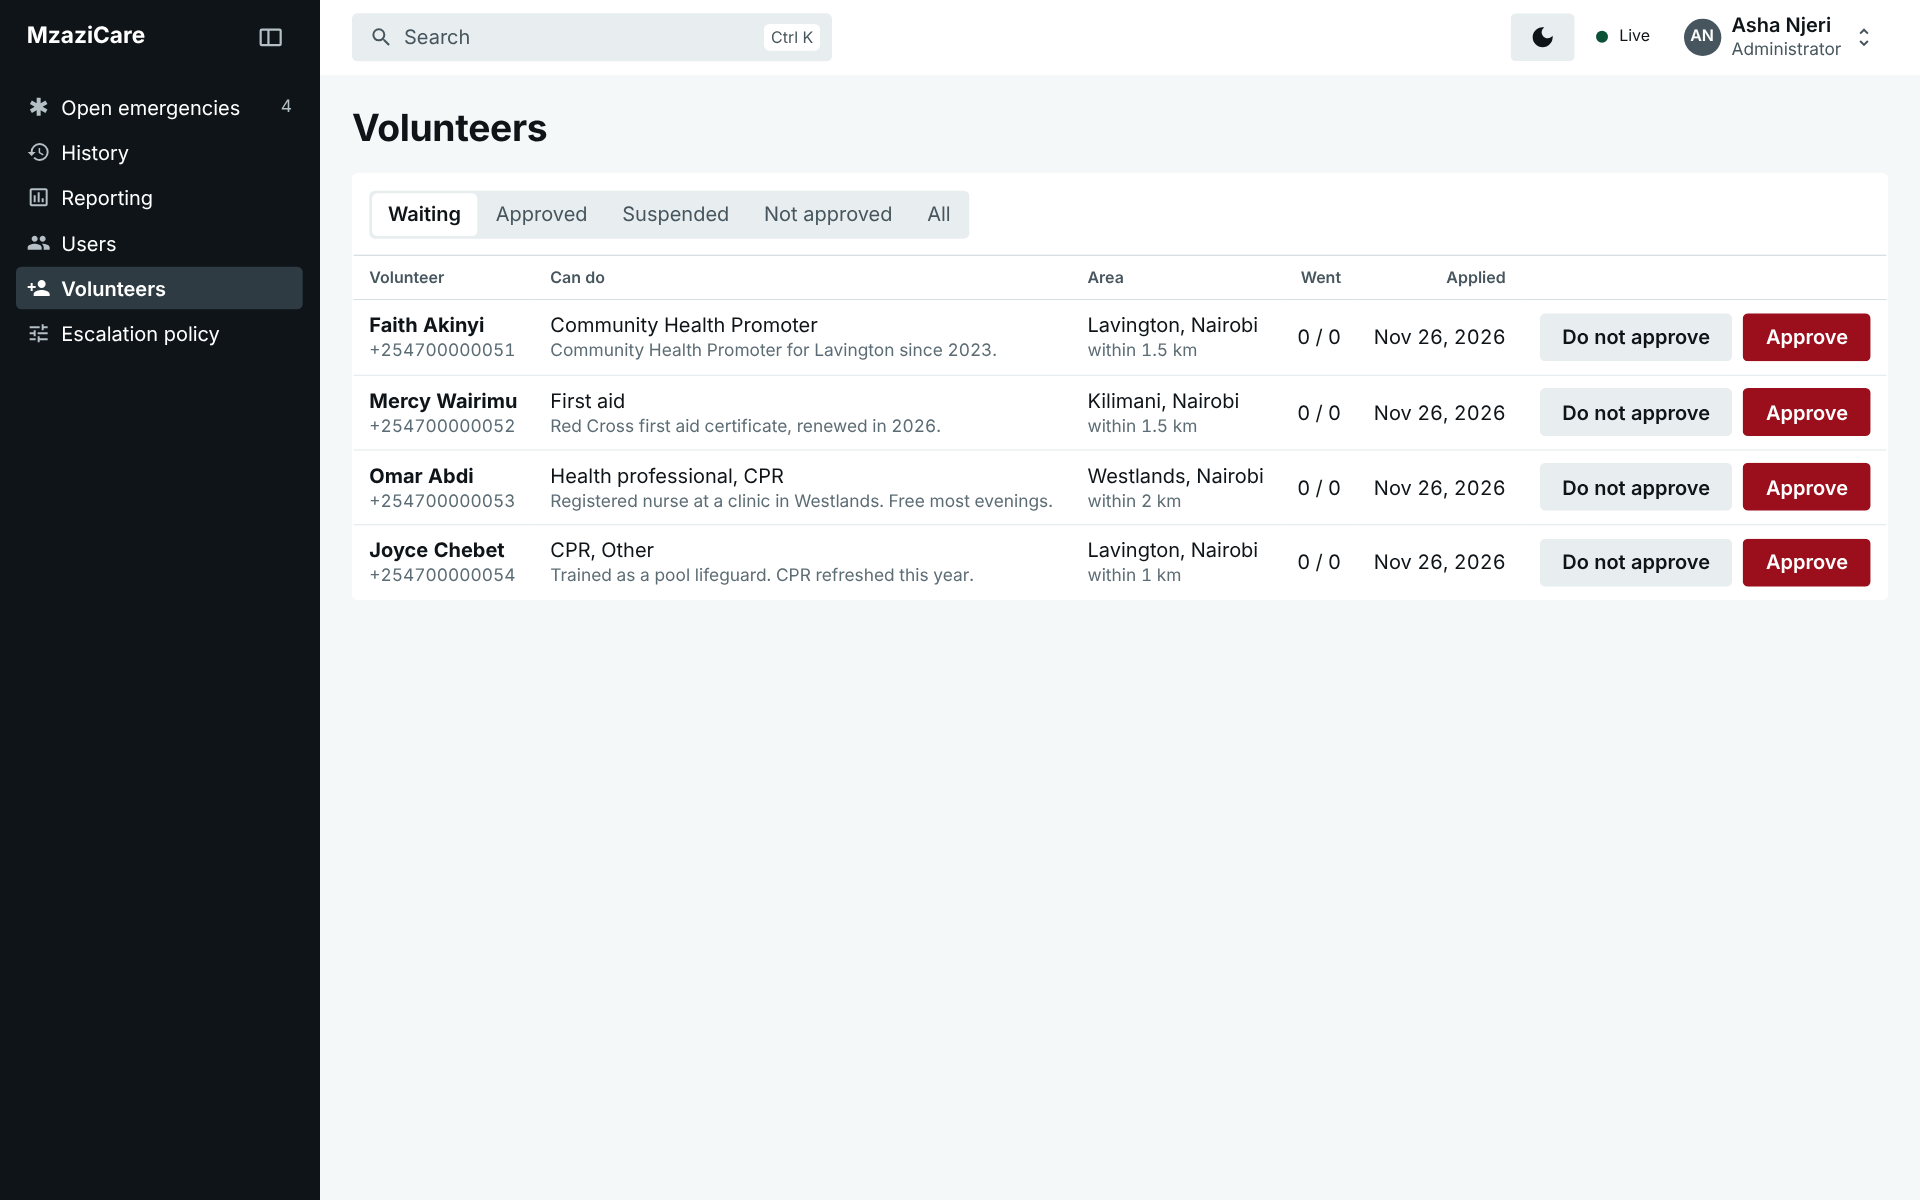
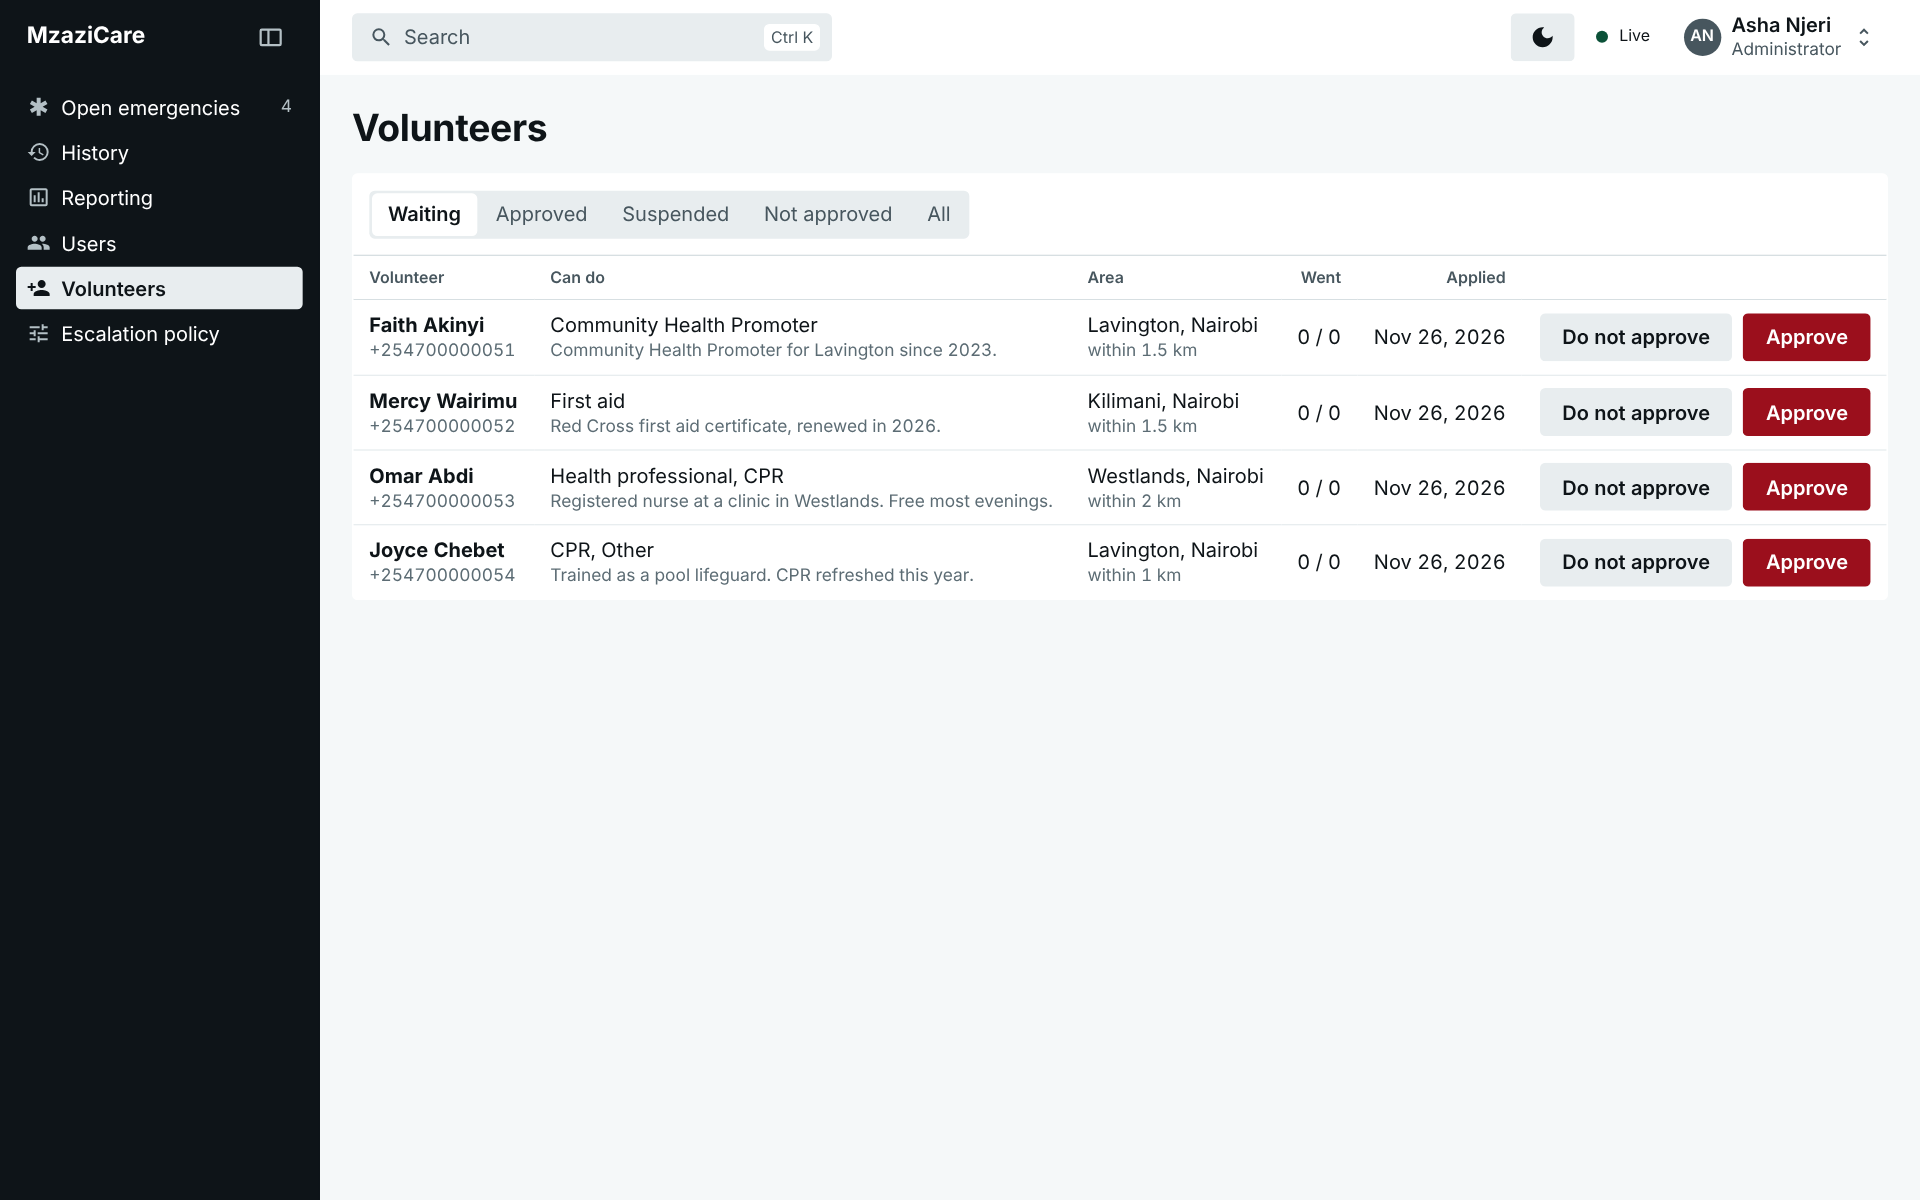
Make the sidebar's hover and current section easy to see
A row in the sidebar now turns a mid grey under the pointer, as the search field darkens
under it, and the current section is a light block with dark words rather than a slightly
lighter dark grey. The collapse button and the rail use the same hover. Both colours have
their own tokens (sidebarHover, sidebarSelected, sidebarSelectedText), gated in light and
dark mode: the words at AAA on the current block and AA on the hover, and each block
against the sidebar itself so it can be seen.

Changed region(s): [[0.0, 0.2158, 0.1562, 0.2775]]

diff --git a/frontend/dashboard/src/styles.css b/frontend/dashboard/src/styles.css
@@ -169,6 +169,10 @@ html {
   clip-path: inset(50%);
   white-space: nowrap;
 }
+.shell--rail .nav a[aria-current='page'] .nav__count {
+  background: var(--sidebar-selected-text);
+  color: var(--sidebar-selected);
+}
 .shell--rail .nav__count {
   position: absolute;
   top: 0;
@@ -209,7 +213,7 @@ html {
   color: var(--sidebar-text-soft);
 }
 .sidebar .icon-button:hover:not(:disabled) {
-  background: var(--sidebar-selected);
+  background: var(--sidebar-hover);
   color: var(--sidebar-text);
 }
 
@@ -259,21 +263,34 @@ html {
   font-size: var(--font-size-body);
   text-decoration: none;
 }
-/* A row in the sidebar: an icon, the name, and a count at the end. The current page is a
-   lighter block on the dark sidebar, never red: red is for emergencies. */
+/* A row in the sidebar: an icon, the name, and a count at the end. Under the pointer it
+   takes a lighter grey block, as the search field darkens under it; the current page is a
+   light block with dark words, never red: red is for emergencies. Both colours are gated
+   against the sidebar in light and dark mode. */
 .nav a:hover {
-  background: color-mix(in srgb, var(--sidebar-selected) 60%, transparent);
+  background: var(--sidebar-hover);
   text-decoration: none;
 }
-.nav a[aria-current='page'] {
+.nav a[aria-current='page'],
+.nav a[aria-current='page']:hover {
   background: var(--sidebar-selected);
+  color: var(--sidebar-selected-text);
   font-weight: var(--font-weight-strong);
 }
 .nav a .icon {
   color: var(--sidebar-text-soft);
 }
-.nav a[aria-current='page'] .icon {
+.nav a:hover .icon {
   color: var(--sidebar-text);
+}
+.nav a[aria-current='page'] .icon,
+.nav a[aria-current='page'] .nav__count {
+  color: var(--sidebar-selected-text);
+}
+@media (prefers-reduced-motion: no-preference) {
+  .nav a {
+    transition: background-color var(--motion-quick) ease;
+  }
 }
 .nav__text {
   flex: 1;

diff --git a/docs/design-language.md b/docs/design-language.md
@@ -167,8 +167,9 @@ console follows the computer's light or dark setting until the moon or sun in th
 is pressed; "Match this device" in the account menu goes back to following it.
 
 - **A window frame.** A dark sidebar holds the sections, each with its count. The current
-  section is a lighter block, never red, and the sidebar's colours have their own tokens,
-  gated at AAA in both themes, with a lighter focus ring that shows on the dark. A button
+  section is a light block with dark words, a row under the pointer turns a mid grey as the
+  search field does, never red, and the sidebar's colours have their own tokens, gated in
+  both themes, with a lighter focus ring that shows on the dark. A button
   at its top collapses it to a rail of icons; on a phone it is a drawer behind a button in
   the top bar. A white bar across the top of every page holds the search on the left and,
   on the right, the Live status and the account, which opens a small menu downwards. Collapsing it is

diff --git a/DESIGN.md b/DESIGN.md
@@ -28,7 +28,9 @@ colors:
   sidebar: "#0E1418"
   sidebar-text: "#FFFFFF"
   sidebar-text-soft: "#B4C0C5"
-  sidebar-selected: "#2E3B42"
+  sidebar-selected: "#E8EDEF"
+  sidebar-selected-text: "#0E1418"
+  sidebar-hover: "#47565E"
 typography:
   elder-display:
     fontFamily: "SF Pro, system-ui, sans-serif"
@@ -444,7 +446,7 @@ the chosen segment raised on it.
 
 A bottom bar in the app with a sunk-surface pill on the current tab and a red badge
 with the number nobody has answered. In the console, a dark sidebar whose current page is
-a lighter block, never red, with each section's count beside it, and a white bar across
+a light block with dark words and whose rows turn a mid grey under the pointer, never red, with each section's count beside it, and a white bar across
 the top with the search, the Live status and the account.
 
 ## Do's and Don'ts
